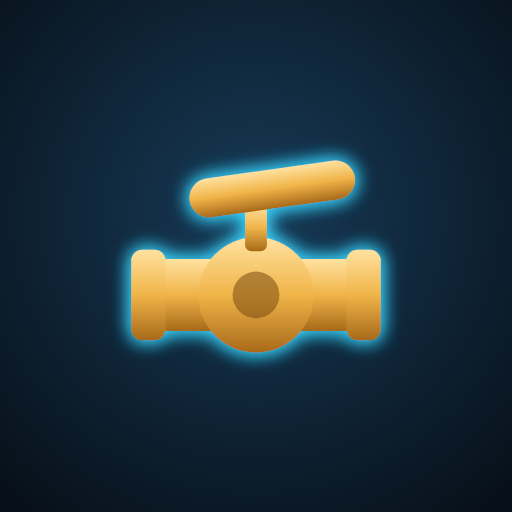
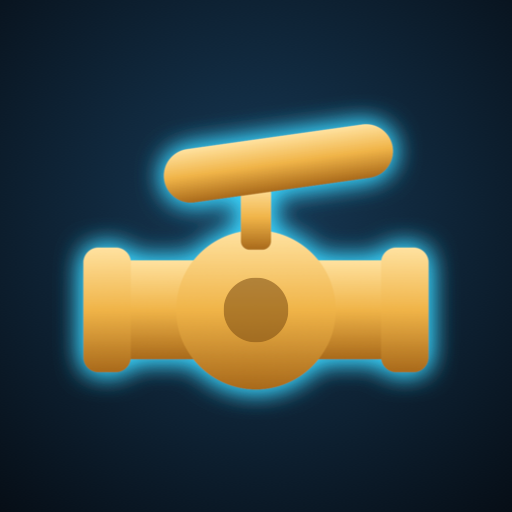
v17: крупнее кран на иконке Android, версия без слова Version
Маскируемая иконка: кран 108% вместо 78% (вариант M2) — на Samsung не выглядит мелким.

Changed region(s): [[0.125, 0.1875, 0.875, 0.8125], [0.4688, 0.5312, 0.5312, 0.5625]]

diff --git a/app.js b/app.js
@@ -311,7 +311,7 @@ function OwnSheet({ onClose, onSave, readOnly, initialName }) {
 function AppVersion() {
   const [v, setV] = useState(null);
   useEffect(() => { let alive = true; Platform.getVersion().then(x => { if (alive) setV(x); }); return () => { alive = false; }; }, []);
-  return v ? html`<p class="app-version">Version ${v}</p>` : null;
+  return v ? html`<p class="app-version">${v}</p>` : null;
 }
 
 function RestoreButton({ onRestore }) {

diff --git a/help.html b/help.html
@@ -303,7 +303,7 @@ h2.part { margin: 12px 0 0; font-size: 20px; }
   // Версия, которая реально работает на устройстве (по офлайн-кэшу)
   Platform.getVersion().then(function (v) {
     var el = document.getElementById('app-version');
-    if (v) { el.textContent = 'Version ' + v; el.hidden = false; }
+    if (v) { el.textContent = v; el.hidden = false; }
   });
 </script>
 </body>

diff --git a/sw.js b/sw.js
@@ -1,6 +1,6 @@
 // Сантехкомплект — service worker: работа без интернета.
 // При КАЖДОЙ выкладке увеличивайте VERSION: без этого телефоны не получат новую версию.
-const VERSION = 'v16';
+const VERSION = 'v17';
 const CORE = 'santeh-core-' + VERSION;
 const LIBS = 'santeh-libs-v1';
 
